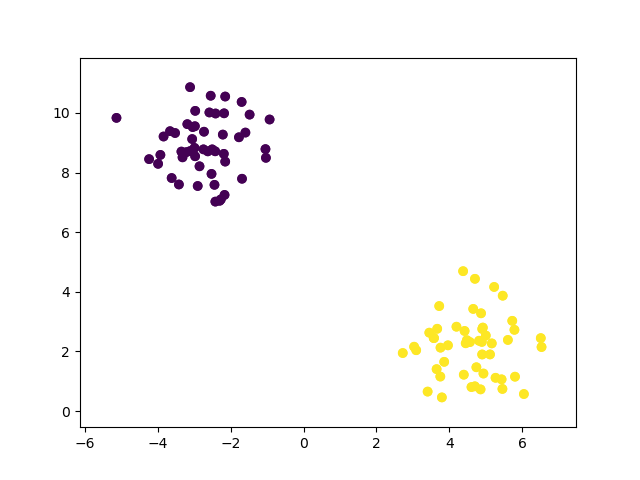
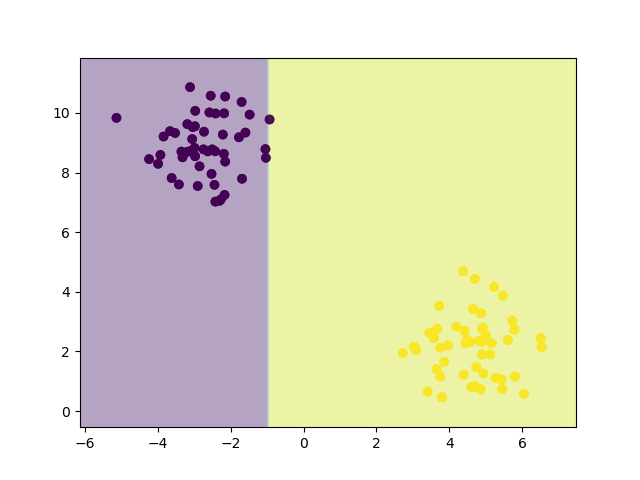
updated devision tree

diff --git a/supervised/DecisionTree/decisiontree.py b/supervised/DecisionTree/decisiontree.py
@@ -84,8 +84,8 @@ class DecisionTree:
 
     
     def _most_common_label(self,y):
-         m = stats.mode(y)[0]
-         print(f"Mode is {m}")
+         m = stats.mode(y)[0][0]
+         return m
 
     
     def _information_gain(self, y, feature_values, threshold):
@@ -119,7 +119,7 @@ if __name__=="__main__":
     print(f"Y min and max are {Y.min()},{Y.max()}")
     plt.scatter(X[:, 0], X[:, 1], c=Y)
     plt.savefig('results/data.png')
-    dt=DecisionTree(max_depth=5)
+    dt=DecisionTree(max_depth=10)
     print(f"Fitting Training data to Decision Tree")
     dt.fit(X, Y)
     plot_decision_boundary(dt, X, Y,save_path="results/decisiontree.png")
